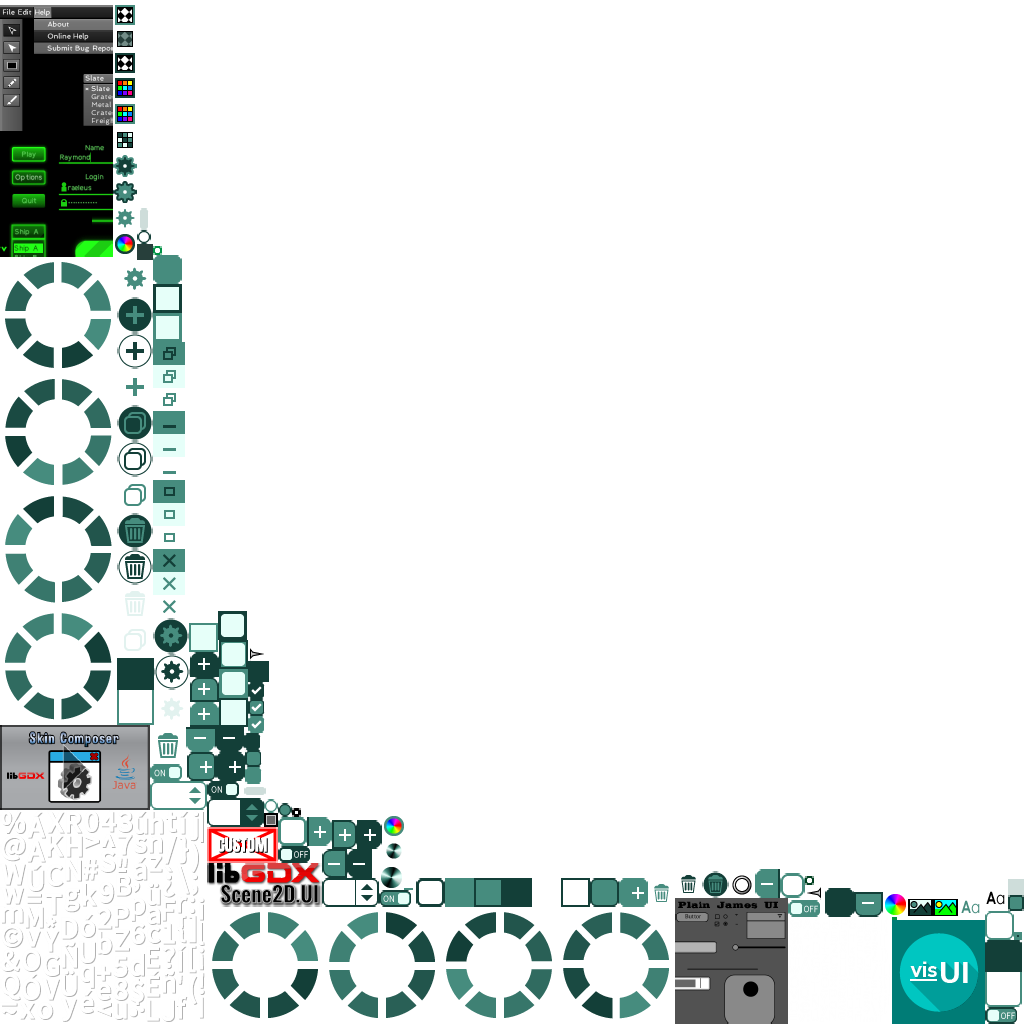
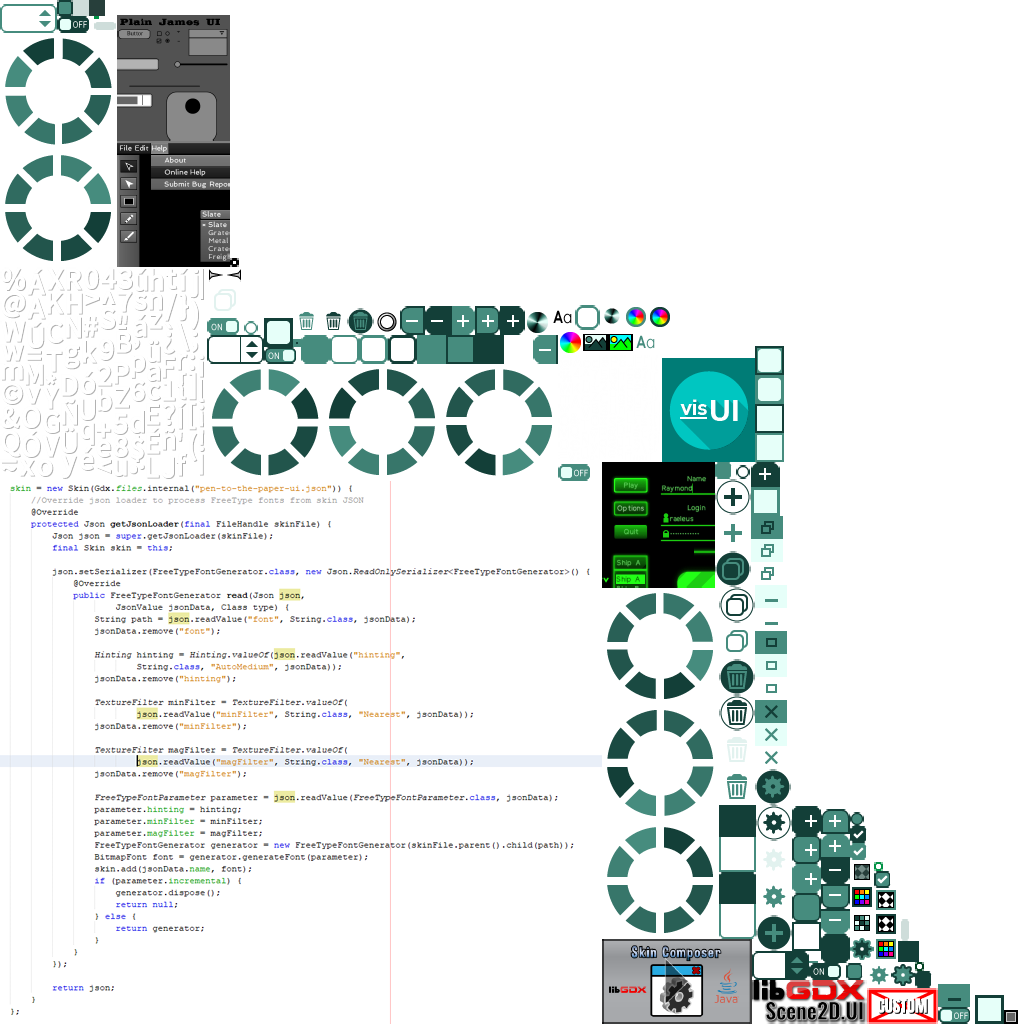
Added "More Info..." to explain serializer process.

diff --git a/core/src/com/ray3k/skincomposer/dialog/DialogFreeTypeFont.java b/core/src/com/ray3k/skincomposer/dialog/DialogFreeTypeFont.java
@@ -76,6 +76,51 @@ public class DialogFreeTypeFont extends Dialog {
     private Array<DialogFreeTypeFontListener> listeners;
     private TextFieldStyle previewStyle;
     private String previewText;
+    private static final String SERIALIZER_TEXT = "skin = new Skin(Gdx.files.internal(\"skin-name.json\")) {\n" +
+"            //Override json loader to process FreeType fonts from skin JSON\n" +
+"            @Override\n" +
+"            protected Json getJsonLoader(final FileHandle skinFile) {\n" +
+"                Json json = super.getJsonLoader(skinFile);\n" +
+"                final Skin skin = this;\n" +
+"\n" +
+"                json.setSerializer(FreeTypeFontGenerator.class, new Json.ReadOnlySerializer<FreeTypeFontGenerator>() {\n" +
+"                    @Override\n" +
+"                    public FreeTypeFontGenerator read(Json json,\n" +
+"                            JsonValue jsonData, Class type) {\n" +
+"                        String path = json.readValue(\"font\", String.class, jsonData);\n" +
+"                        jsonData.remove(\"font\");\n" +
+"\n" +
+"                        Hinting hinting = Hinting.valueOf(json.readValue(\"hinting\", \n" +
+"                                String.class, \"AutoMedium\", jsonData));\n" +
+"                        jsonData.remove(\"hinting\");\n" +
+"\n" +
+"                        TextureFilter minFilter = TextureFilter.valueOf(\n" +
+"                                json.readValue(\"minFilter\", String.class, \"Nearest\", jsonData));\n" +
+"                        jsonData.remove(\"minFilter\");\n" +
+"\n" +
+"                        TextureFilter magFilter = TextureFilter.valueOf(\n" +
+"                                json.readValue(\"magFilter\", String.class, \"Nearest\", jsonData));\n" +
+"                        jsonData.remove(\"magFilter\");\n" +
+"\n" +
+"                        FreeTypeFontParameter parameter = json.readValue(FreeTypeFontParameter.class, jsonData);\n" +
+"                        parameter.hinting = hinting;\n" +
+"                        parameter.minFilter = minFilter;\n" +
+"                        parameter.magFilter = magFilter;\n" +
+"                        FreeTypeFontGenerator generator = new FreeTypeFontGenerator(skinFile.parent().child(path));\n" +
+"                        BitmapFont font = generator.generateFont(parameter);\n" +
+"                        skin.add(jsonData.name, font);\n" +
+"                        if (parameter.incremental) {\n" +
+"                            generator.dispose();\n" +
+"                            return null;\n" +
+"                        } else {\n" +
+"                            return generator;\n" +
+"                        }\n" +
+"                    }\n" +
+"                });\n" +
+"\n" +
+"                return json;\n" +
+"            }\n" +
+"        };";
     
     public DialogFreeTypeFont(Main main, FreeTypeFontData freeTypeFontData) {
         super(freeTypeFontData == null ? "Create new FreeType Font" : "Edit FreeType Font", main.getSkin(), "bg");
@@ -999,7 +1044,8 @@ public class DialogFreeTypeFont extends Dialog {
     }
     
     private void showMoreInfoDialog() {
-        Dialog dialog = new Dialog("Custom serializer for FreeType Fonts", skin, "dialog");
+        Dialog dialog = new Dialog("Custom serializer for FreeType Fonts", skin, "bg");
+        dialog.setFillParent(true);
         
         dialog.getTitleLabel().setAlignment(Align.center);
         dialog.getContentTable().pad(15.0f);
@@ -1010,13 +1056,18 @@ public class DialogFreeTypeFont extends Dialog {
         dialog.getContentTable().add(label).growX();
         
         dialog.getContentTable().row();
+        Image image = new Image(skin, "code-sample");
+        image.setScaling(Scaling.fit);
+        dialog.getContentTable().add(image);
+        
+        dialog.getContentTable().row();
         TextButton textButton = new TextButton("Copy sample code to clipboard", skin);
         dialog.getContentTable().add(textButton);
         
         textButton.addListener(new ChangeListener() {
             @Override
             public void changed(ChangeListener.ChangeEvent event, Actor actor) {
-                Gdx.app.getClipboard().setContents("Test content");
+                Gdx.app.getClipboard().setContents(SERIALIZER_TEXT);
             }
         });
 
@@ -1024,8 +1075,6 @@ public class DialogFreeTypeFont extends Dialog {
         dialog.getButtonTable().defaults().minWidth(100.0f);
         dialog.button("OK", true);
         dialog.show(main.getStage());
-        dialog.setSize(400, 400);
-        dialog.setPosition(Gdx.graphics.getWidth() / 2.0f, Gdx.graphics.getHeight() / 2.0f, Align.center);
     }
     
     public static interface DialogFreeTypeFontListener {
